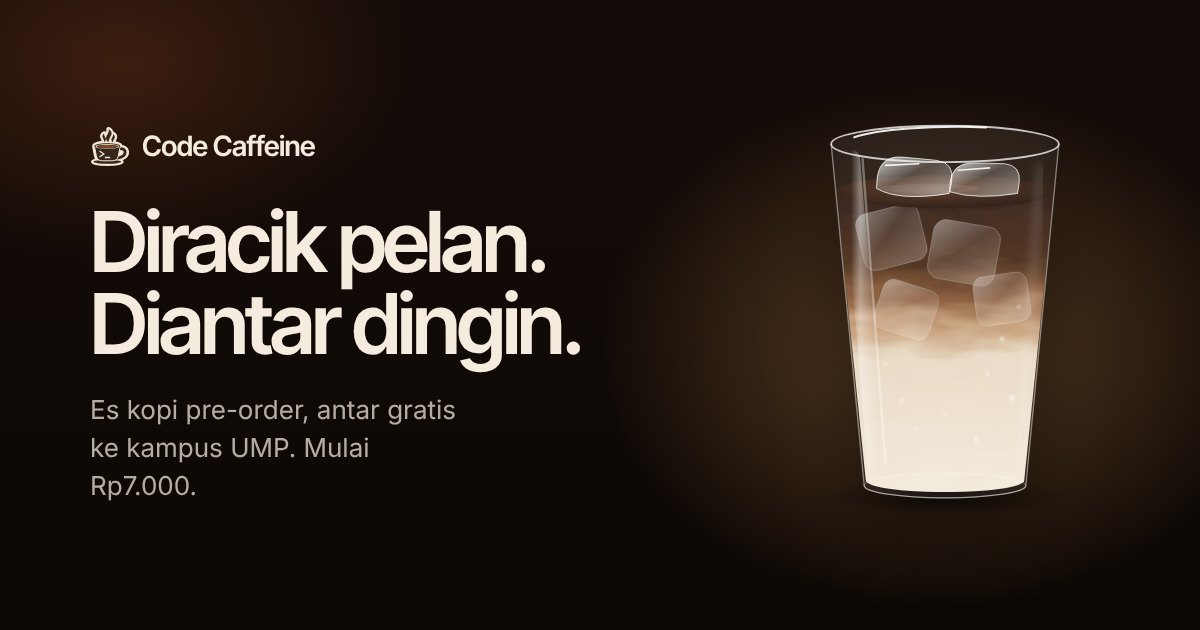
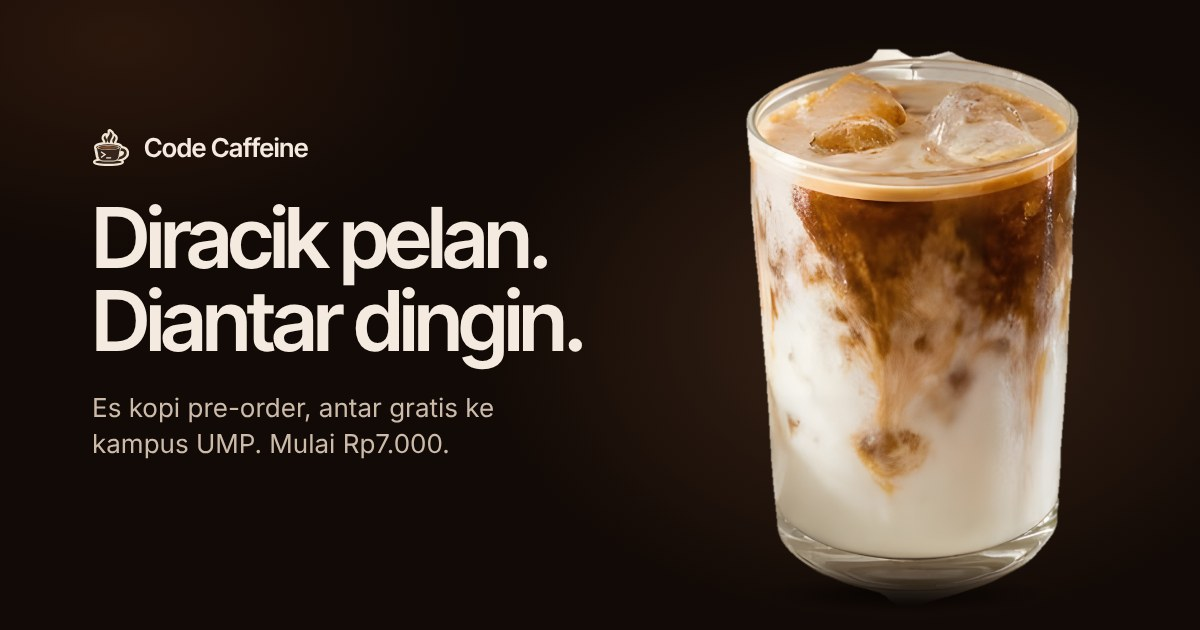
Foto asli minuman di web menggantikan gambar ilustrasi
- Foto HD tiap menu (WebP transparan) di kartu menu dan hero
- Ganti ukuran S/M/L tetap ada animasi besar-kecil, dari dasar gelas
- Gambar pratinjau link (og.jpg) pakai foto Dirty Latte

Claude-Session: https://claude.ai/code/session_01PxKoLG2WsNc1jtjgmr7kB3

diff --git a/assets/js/app.js b/assets/js/app.js
@@ -139,60 +139,17 @@
     $('[data-schedule-note]').textContent = rutin + note;
   }
 
-  /* ================= Gambar gelas ================= */
-  let uid = 0;
-  const SCALE = { S: [0.9, 0.82], M: [0.95, 0.91], L: [1, 1] };
-
-  function cupSVG(drink, size) {
-    const id = 'g' + (++uid);
-    const g = drink.gelas;
-    const stops = g.cairan.map(([o, c]) => `<stop offset="${o}" stop-color="${c}"/>`).join('');
-    const [sx, sy] = SCALE[size];
+  /* ================= Foto minuman ================= */
+  // Foto asli tiap menu (assets/img/menu/<id>.webp). Ukuran dipilih = foto diperbesar/diperkecil.
+  const SCALE = { S: 0.8, M: 0.9, L: 1 };
+  function cupPhoto(drink, size, hero) {
     const u = sizeOf(size);
-    const iceOpacity = g.bening ? 0.8 : 0.55;
-    const foam = g.busa
-      ? `<g clip-path="url(#cc-liquid)">${Array.from({ length: 14 }, (_, i) => `<circle cx="${80 + i * 18 + (i % 2) * 6}" cy="${152 + (i % 3) * 5}" r="${10 + (i % 4) * 3}" fill="${g.permukaan[0]}" opacity=".9"/>`).join('')}</g>`
-      : '';
-    return `<svg viewBox="40 40 320 500" role="img" aria-label="${drink.nama}, ${u.nama} ${u.oz} oz" xmlns="http://www.w3.org/2000/svg">
-      <defs>
-        <linearGradient id="${id}l" x1="0" y1="150" x2="0" y2="510" gradientUnits="userSpaceOnUse">${stops}</linearGradient>
-        <radialGradient id="${id}s" cx=".45" cy=".4" r=".7"><stop offset="0" stop-color="${g.permukaan[0]}"/><stop offset="1" stop-color="${g.permukaan[1]}"/></radialGradient>
-      </defs>
-      <ellipse cx="200" cy="520" rx="150" ry="20" fill="url(#cc-shadow)"/>
-      <g class="cupgrp" data-cupgrp style="transform:scale(${sx},${sy})">
-        <g clip-path="url(#cc-liquid)">
-          <rect x="40" y="120" width="320" height="420" fill="url(#${id}l)" ${g.bening ? '' : 'filter="url(#cc-marble)"'}/>
-          <g opacity="${iceOpacity}">
-            <rect x="96" y="170" width="78" height="70" rx="14" transform="rotate(-14 135 205)" fill="url(#cc-ice)" stroke="#fff" stroke-opacity=".5"/>
-            <rect x="182" y="188" width="82" height="72" rx="15" transform="rotate(10 223 224)" fill="url(#cc-ice)" stroke="#fff" stroke-opacity=".5"/>
-            <rect x="236" y="250" width="66" height="60" rx="13" transform="rotate(-8 269 280)" fill="url(#cc-ice)" stroke="#fff" stroke-opacity=".45"/>
-            <rect x="118" y="262" width="70" height="62" rx="13" transform="rotate(18 153 293)" fill="url(#cc-ice)" stroke="#fff" stroke-opacity=".4"/>
-          </g>
-        </g>
-        <ellipse cx="200" cy="150" rx="132" ry="20" fill="url(#${id}s)"/>
-        ${foam}
-        <ellipse cx="180" cy="146" rx="60" ry="6" fill="#fff" opacity=".08"/>
-        <path d="M118,132 q4,-26 30,-24 l42,4 q22,3 18,26 l-3,14 q-60,10 -88,-6 z" fill="url(#cc-ice)" stroke="#fff" stroke-opacity=".8" stroke-width="1.2"/>
-        <path d="M206,140 q2,-24 26,-25 l40,1 q20,2 18,22 l-2,14 q-50,8 -82,-2 z" fill="url(#cc-ice)" stroke="#fff" stroke-opacity=".75" stroke-width="1.2"/>
-        <path d="M128,118 l40,-2 M216,124 l38,-3" stroke="#fff" stroke-opacity=".9" stroke-width="2" stroke-linecap="round"/>
-        <g clip-path="url(#cc-body)">
-          <rect x="40" y="60" width="320" height="480" fill="#fff" opacity=".06"/>
-          <rect x="40" y="60" width="320" height="480" fill="url(#cc-edge)"/>
-          <path d="M86,110 L118,490" stroke="url(#cc-sheen)" stroke-width="22" stroke-linecap="round" opacity=".7"/>
-          <path d="M100,110 L128,480" stroke="#fff" stroke-opacity=".35" stroke-width="3" stroke-linecap="round"/>
-          <path d="M316,120 L290,480" stroke="#fff" stroke-opacity=".18" stroke-width="8" stroke-linecap="round" filter="url(#cc-blur)"/>
-          <g filter="url(#cc-soft)" fill="url(#cc-drop)">
-            <ellipse cx="270" cy="330" rx="4" ry="5"/><ellipse cx="252" cy="372" rx="3" ry="4"/><ellipse cx="282" cy="402" rx="5" ry="6.5"/>
-            <ellipse cx="148" cy="404" rx="3.5" ry="4.5"/><ellipse cx="166" cy="438" rx="2.5" ry="3"/><ellipse cx="238" cy="452" rx="4" ry="5"/>
-            <ellipse cx="200" cy="420" rx="2.5" ry="3.2"/><ellipse cx="128" cy="360" rx="2.8" ry="3.6"/><ellipse cx="290" cy="290" rx="2.6" ry="3.2"/>
-          </g>
-        </g>
-        <path class="cup-edge" d="M62,92 L102,506 A98,15 0 0 0 298,506 L338,92" fill="none" stroke-width="1.6"/>
-        <ellipse class="cup-rim" cx="200" cy="92" rx="138" ry="22" fill="none" stroke-width="2.2"/>
-        <path d="M90,84 A138,22 0 0 1 250,72" fill="none" stroke="#fff" stroke-opacity=".9" stroke-width="2.5" stroke-linecap="round"/>
-        <ellipse class="cup-edge" cx="200" cy="506" rx="98" ry="15" fill="none" stroke-width="1.4"/>
-      </g>
-    </svg>`;
+    const src = `/assets/img/menu/${drink.id}${hero ? '-besar' : ''}.webp`;
+    const load = hero ? 'fetchpriority="high"' : 'loading="lazy"';
+    return `<div class="cup-photo" data-cupgrp style="--s:${SCALE[size]}">
+        <span class="cup-shadow" aria-hidden="true"></span>
+        <img src="${src}" alt="${drink.nama}, ${u.nama} ${u.oz} oz" ${load} decoding="async" draggable="false">
+      </div>`;
   }
 
   /* ================= Keranjang ================= */
@@ -231,7 +188,7 @@
   function renderMenu() {
     $('[data-drinks]').innerHTML = C.menu.map(d => `
       <article class="card${d.andalan ? ' featured' : ''}" data-drink="${d.id}">
-        <div class="card-cup">${cupSVG(d, 'M')}</div>
+        <div class="card-cup">${cupPhoto(d, 'M')}</div>
         <div class="card-title"><h3>${d.nama}</h3>${d.andalan ? '<span class="badge">Andalan</span>' : ''}</div>
         <p class="card-desc">${d.deskripsi}</p>
         <fieldset class="sizes">
@@ -250,9 +207,8 @@
       card.addEventListener('change', e => {
         if (!e.target.name || !e.target.name.startsWith('size-')) return;
         const size = e.target.value;
-        const [sx, sy] = SCALE[size];
-        $('[data-cupgrp]', card).style.transform = `scale(${sx},${sy})`;
-        $('.card-cup svg', card).setAttribute('aria-label', `${d.nama}, ${sizeOf(size).nama} ${sizeOf(size).oz} oz`);
+        $('[data-cupgrp]', card).style.setProperty('--s', SCALE[size]);
+        $('.card-cup img', card).alt = `${d.nama}, ${sizeOf(size).nama} ${sizeOf(size).oz} oz`;
         $('[data-price]', card).innerHTML = priceHTML(d, size);
       });
       $('[data-add]', card).addEventListener('click', e => {
@@ -509,7 +465,7 @@
   }
 
   /* ================= Mulai ================= */
-  $('[data-hero-cup]').innerHTML = cupSVG(drinkOf('dirty-latte'), 'L');
+  $('[data-hero-cup]').innerHTML = cupPhoto(drinkOf('dirty-latte'), 'L', true);
   renderMenu();
   renderStatus();
   renderWeek();

diff --git a/assets/css/style.css b/assets/css/style.css
@@ -29,8 +29,7 @@
   --glow-a: rgba(201, 138, 76, .30);
   --glow-b: rgba(138, 63, 31, .30);
   --glow-c: rgba(110, 60, 30, .24);
-  --cup-edge: rgba(255, 255, 255, .5);
-  --cup-rim: rgba(255, 255, 255, .8);
+  --cup-shadow: rgba(0, 0, 0, .6);
   --grain: .05;
   --ok: #7DDC8E;
   --warn: #F2B46C;
@@ -66,8 +65,7 @@
     --glow-a: rgba(183, 119, 63, .34);
     --glow-b: rgba(170, 100, 55, .20);
     --glow-c: rgba(183, 119, 63, .16);
-    --cup-edge: rgba(70, 40, 20, .30);
-    --cup-rim: rgba(255, 255, 255, .95);
+    --cup-shadow: rgba(70, 38, 16, .32);
     --grain: .035;
     --ok: #2F8F4C;
     --warn: #B86A1E;
@@ -114,7 +112,6 @@ a { color: inherit; text-decoration: none; }
 button, input, select, textarea { font: inherit; color: inherit; }
 button { cursor: pointer; }
 :focus-visible { outline: 2px solid var(--focus); outline-offset: 3px; border-radius: 10px; }
-.defs { position: absolute; width: 0; height: 0; overflow: hidden; }
 .skip { position: absolute; left: -999px; top: 10px; z-index: 100; padding: 10px 16px; border-radius: 12px; background: var(--btn-bg); color: var(--btn-ink); }
 .skip:focus { left: 12px; }
 .wrap { max-width: var(--wrap); margin: 0 auto; padding: 0 24px; }
@@ -188,7 +185,7 @@ h1 {
 .hero-sub { margin: 22px auto 0; max-width: 34em; font-size: clamp(16px, 1.6vw, 19px); color: var(--ink2); text-wrap: pretty; }
 .hero-actions { margin-top: 30px; display: flex; justify-content: center; gap: 12px; flex-wrap: wrap; }
 .hero-cup { position: relative; width: min(360px, 70vw); margin: 34px auto 0; }
-.cup-art svg { width: 100%; height: auto; overflow: visible; }
+.cup-art { height: calc(min(360px, 70vw) * 1.5); }
 .callout {
   position: absolute; padding: 11px 15px; border-radius: 18px;
   font-size: 12.5px; line-height: 1.35; color: var(--ink2); text-align: left; white-space: nowrap;
@@ -236,7 +233,18 @@ h3 { font-family: var(--f-display); font-weight: 600; letter-spacing: -.02em; }
   box-shadow: inset 0 1px 0 var(--glass-hi);
 }
 .card-cup { height: 230px; display: flex; align-items: flex-end; justify-content: center; margin-bottom: 14px; }
-.card-cup svg { height: 100%; width: auto; overflow: visible; }
+/* Foto minuman: tinggi tetap, ukuran S/M/L = skala dari dasar gelas */
+.cup-photo {
+  position: relative; height: 100%;
+  display: flex; align-items: flex-end; justify-content: center;
+  transform: scale(var(--s, 1)); transform-origin: 50% 100%;
+  transition: transform .45s cubic-bezier(.3, 1.3, .5, 1);
+}
+.cup-photo img { position: relative; height: 100%; width: auto; max-width: none; user-select: none; -webkit-user-drag: none; }
+.cup-shadow {
+  position: absolute; left: 50%; bottom: -3%; width: 74%; height: 8%; transform: translateX(-50%);
+  border-radius: 50%; background: radial-gradient(closest-side, var(--cup-shadow), transparent);
+}
 .card-title { display: flex; align-items: center; gap: 10px; flex-wrap: wrap; }
 .card h3 { font-size: 24px; line-height: 1.15; }
 .badge { padding: 3px 10px; border-radius: 999px; font-size: 12px; font-weight: 600; color: var(--accent); border: 1px solid color-mix(in srgb, var(--accent) 45%, transparent); }
@@ -254,9 +262,6 @@ h3 { font-family: var(--f-display); font-weight: 600; letter-spacing: -.02em; }
 .card .btn { height: 44px; }
 .card .btn.added { background: var(--ok); color: #0D1A10; }
 .in-cart { margin-top: 10px; font-size: 13px; color: var(--accent); font-weight: 600; min-height: 1.2em; }
-.cupgrp { transform-box: view-box; transform-origin: 200px 506px; transition: transform .45s cubic-bezier(.3, 1.3, .5, 1); }
-.cup-edge { stroke: var(--cup-edge); }
-.cup-rim { stroke: var(--cup-rim); }
 
 /* ---------- Bento & langkah ---------- */
 .bento, .steps { display: grid; gap: 14px; }

diff --git a/index.html b/index.html
@@ -20,29 +20,11 @@
   <meta name="twitter:card" content="summary_large_image">
   <link rel="preload" href="/assets/fonts/inter-tight.woff2" as="font" type="font/woff2" crossorigin>
   <link rel="preload" href="/assets/fonts/inter.woff2" as="font" type="font/woff2" crossorigin>
+  <link rel="preload" href="/assets/img/menu/dirty-latte-besar.webp" as="image" type="image/webp">
   <link rel="stylesheet" href="/assets/css/style.css">
 </head>
 <body>
   <a class="skip" href="#menu">Langsung ke menu</a>
-
-  <!-- Bahan gambar gelas yang dipakai bersama -->
-  <svg class="defs" aria-hidden="true" focusable="false">
-    <defs>
-      <clipPath id="cc-body"><path d="M62,92 L102,506 A98,15 0 0 0 298,506 L338,92 A138,22 0 0 0 62,92 Z"/></clipPath>
-      <clipPath id="cc-liquid"><path d="M68,150 L104,500 A96,14 0 0 0 296,500 L332,150 A132,20 0 0 0 68,150 Z"/></clipPath>
-      <filter id="cc-marble" x="-10%" y="-10%" width="120%" height="120%">
-        <feTurbulence type="fractalNoise" baseFrequency="0.012 0.035" numOctaves="3" seed="7" result="n"/>
-        <feDisplacementMap in="SourceGraphic" in2="n" scale="46" xChannelSelector="R" yChannelSelector="G"/>
-      </filter>
-      <linearGradient id="cc-sheen" x1="0" x2="1"><stop offset="0" stop-color="#fff" stop-opacity="0"/><stop offset=".35" stop-color="#fff" stop-opacity=".55"/><stop offset="1" stop-color="#fff" stop-opacity="0"/></linearGradient>
-      <linearGradient id="cc-edge" x1="0" x2="1"><stop offset="0" stop-color="#000" stop-opacity=".22"/><stop offset=".12" stop-color="#000" stop-opacity="0"/><stop offset=".88" stop-color="#000" stop-opacity="0"/><stop offset="1" stop-color="#000" stop-opacity=".28"/></linearGradient>
-      <linearGradient id="cc-ice" x1="0" y1="0" x2="1" y2="1"><stop offset="0" stop-color="#fff" stop-opacity=".75"/><stop offset=".45" stop-color="#fff" stop-opacity=".18"/><stop offset="1" stop-color="#fff" stop-opacity=".45"/></linearGradient>
-      <radialGradient id="cc-drop" cx=".35" cy=".3" r=".7"><stop offset="0" stop-color="#fff" stop-opacity=".95"/><stop offset=".4" stop-color="#fff" stop-opacity=".25"/><stop offset="1" stop-color="#fff" stop-opacity=".05"/></radialGradient>
-      <radialGradient id="cc-shadow" cx=".5" cy=".5" r=".5"><stop offset="0" stop-color="#000" stop-opacity=".5"/><stop offset="1" stop-color="#000" stop-opacity="0"/></radialGradient>
-      <filter id="cc-soft"><feGaussianBlur stdDeviation="1.2"/></filter>
-      <filter id="cc-blur"><feGaussianBlur stdDeviation="6"/></filter>
-    </defs>
-  </svg>
 
   <header class="nav-wrap">
     <nav class="nav glass" aria-label="Utama">

diff --git a/assets/js/config.js b/assets/js/config.js
@@ -46,44 +46,39 @@ window.CC_CONFIG = {
     { id: 'L', nama: 'Large', oz: 16 }
   ],
 
-  // Harga S/M/L sesuai Excel keuangan kelompok
+  // Harga S/M/L sesuai Excel keuangan kelompok.
+  // Foto tiap menu: assets/img/menu/<id>.webp (latar transparan, tinggi 720 px).
   menu: [
     {
       id: 'dirty-latte',
       nama: 'Dirty Latte',
       andalan: true,
       deskripsi: 'Susu dingin dengan kopi yang dituang di atasnya. Diminum berlapis atau diaduk dulu, sama-sama enak.',
-      harga: { S: 13000, M: 15000, L: 17000 },
-      // warna gambar gelas, dari atas ke bawah
-      gelas: { cairan: [[0, '#2E1A10'], [0.22, '#4A2B18'], [0.36, '#8A5A38'], [0.46, '#C9A27C'], [0.56, '#E8D9C3'], [1, '#F3EADB']], permukaan: ['#5A3520', '#24140B'] }
+      harga: { S: 13000, M: 15000, L: 17000 }
     },
     {
       id: 'dalgona',
       nama: 'Dalgona Coffee',
       deskripsi: 'Kopi kocok yang lembut di atas susu dingin.',
-      harga: { S: 10000, M: 12000, L: 14000 },
-      gelas: { cairan: [[0, '#D39A5E'], [0.2, '#C68B52'], [0.3, '#B98049'], [0.36, '#E9DCC8'], [1, '#F4ECDF']], permukaan: ['#E2AE74', '#C08048'], busa: true }
+      harga: { S: 10000, M: 12000, L: 14000 }
     },
     {
       id: 'cimory-matcha',
       nama: 'Cimory Matcha Latte',
       deskripsi: 'Matcha susu Cimory yang creamy dan dingin.',
-      harga: { S: 13000, M: 15000, L: 17000 },
-      gelas: { cairan: [[0, '#C9DA9E'], [0.14, '#A7C176'], [0.5, '#8EAB5A'], [1, '#B9CF8B']], permukaan: ['#CFE0A6', '#9DB86A'] }
+      harga: { S: 13000, M: 15000, L: 17000 }
     },
     {
       id: 'milo',
       nama: 'Ice Coffee Milo',
       deskripsi: 'Milo cokelat ketemu kopi, manis dan dingin.',
-      harga: { S: 13000, M: 15000, L: 17000 },
-      gelas: { cairan: [[0, '#A06B47'], [0.3, '#8A5636'], [0.55, '#6A3D24'], [1, '#4E2B17']], permukaan: ['#A87552', '#6B3D22'] }
+      harga: { S: 13000, M: 15000, L: 17000 }
     },
     {
       id: 'americano',
       nama: 'Americano',
       deskripsi: 'Kopi hitam dingin yang ringan. Pilihan paling hemat.',
-      harga: { S: 7000, M: 8000, L: 9000 },
-      gelas: { cairan: [[0, '#2A160C'], [0.5, '#3A2012'], [1, '#4A2A17']], permukaan: ['#3B2213', '#1A0D06'], bening: true }
+      harga: { S: 7000, M: 8000, L: 9000 }
     }
   ]
 };
